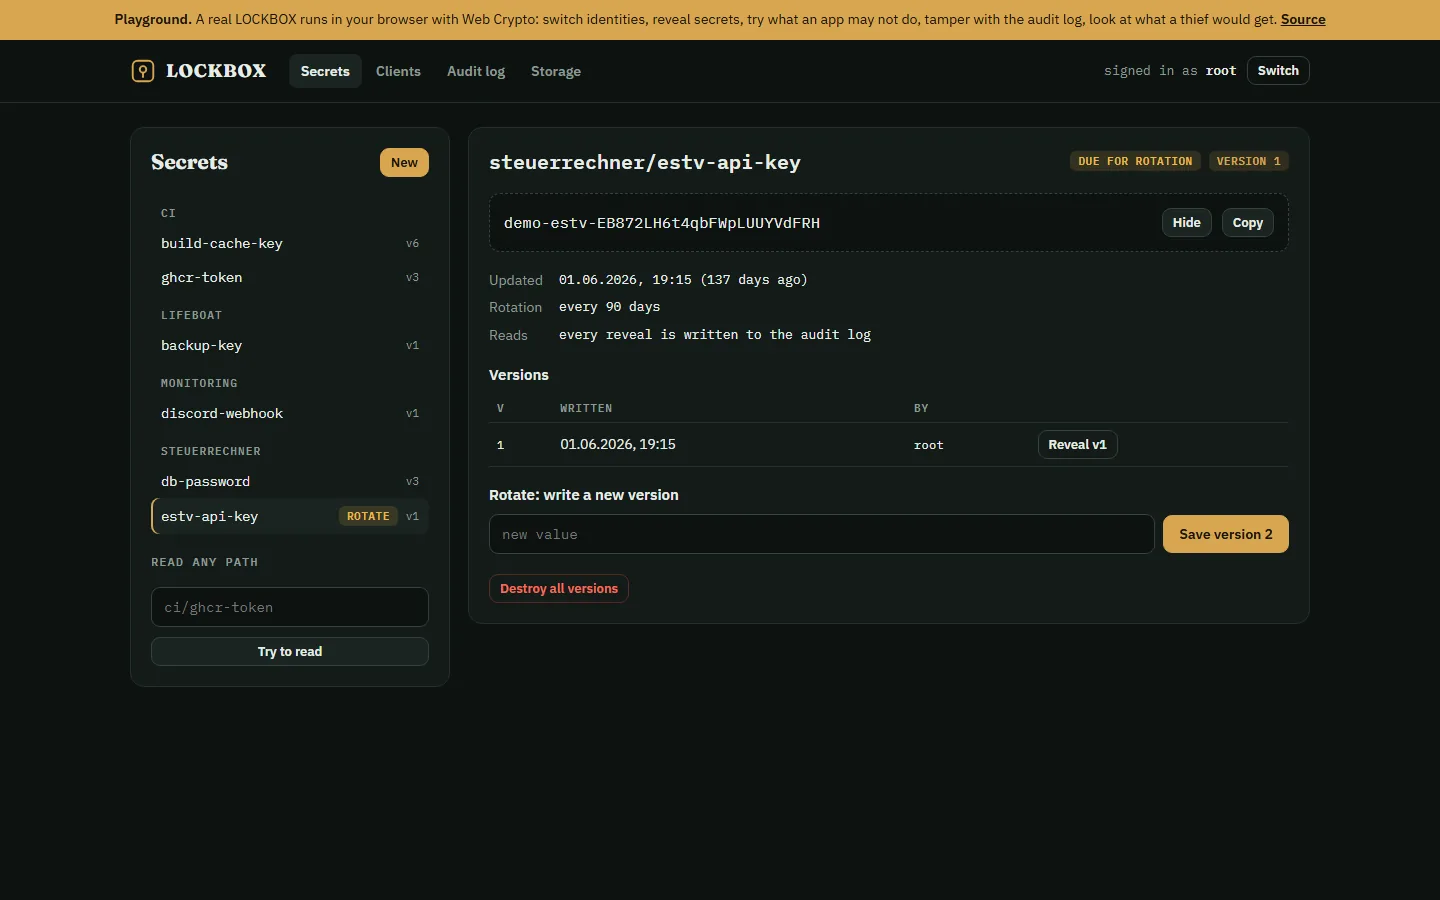
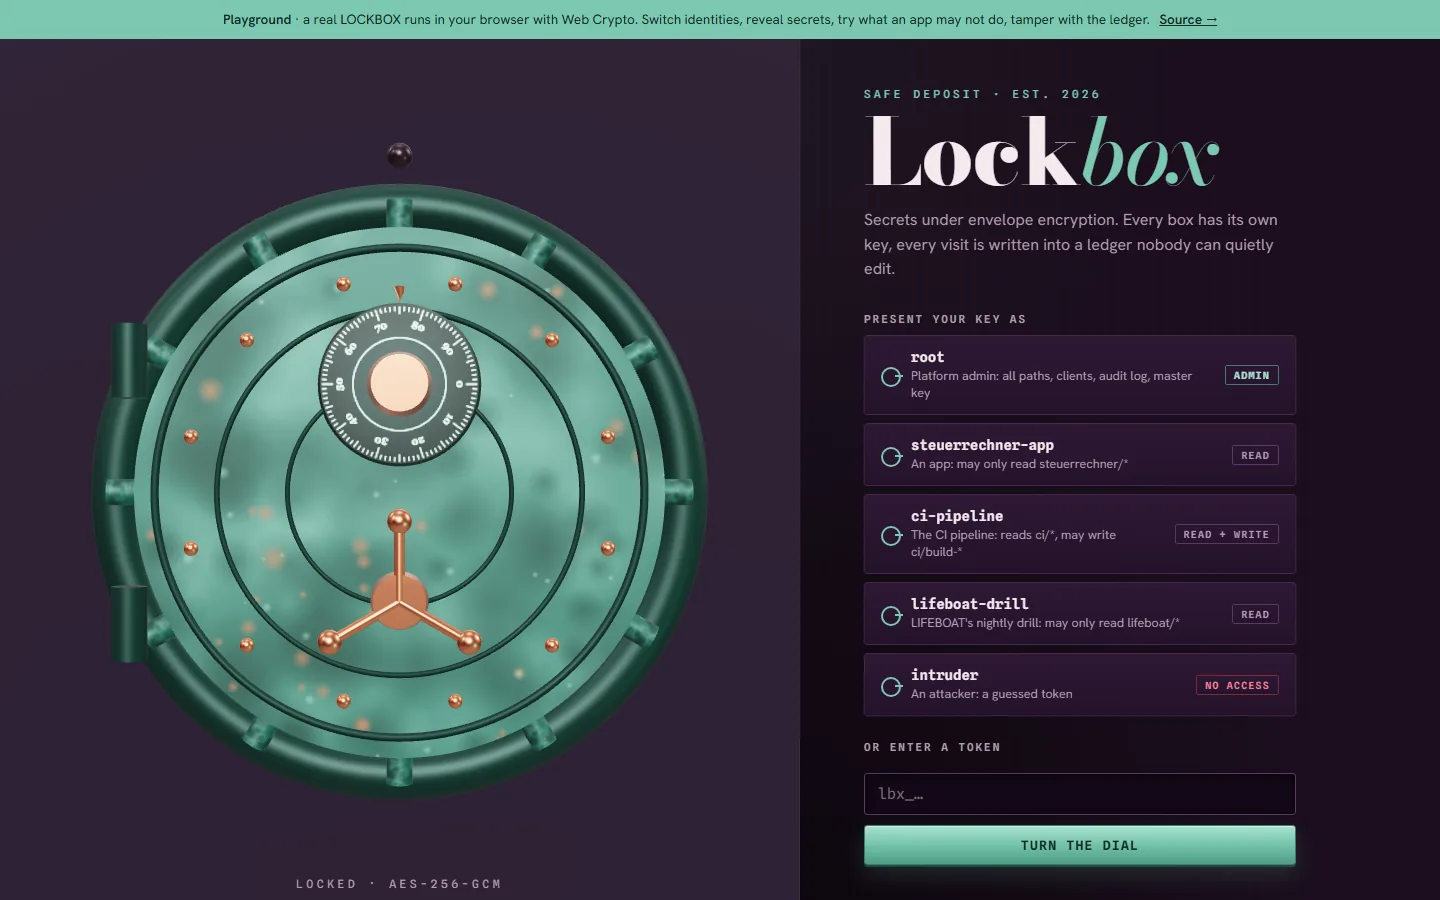
New screenshots after the redesign

diff --git a/projekte.html b/projekte.html
@@ -53,9 +53,9 @@
       </p>
       <ul class="ccards">
         <li class="ccard ccard--wide">
-          <button class="ccard__shot" type="button" data-shot="assets/launchpad.webp?v=2" data-title="LAUNCHPAD"
-                  data-alt="Screenshot des LAUNCHPAD-Portals: dunkles Dashboard mit Kennzahlen, Plattform-Komponenten und Karten für die Apps Ember, GAMBIT, hello-api und Steuerrechner, alle gesund und synchron mit Git, aufgenommen vom echten Cluster">
-            <img src="assets/launchpad.webp?v=2" alt="" loading="lazy" />
+          <button class="ccard__shot" type="button" data-shot="assets/launchpad.webp?v=3" data-title="LAUNCHPAD"
+                  data-alt="LAUNCHPAD im Blaupausen-Look: der Cluster als 3D-Startrampe, jede App ein Turm, eine neue App steigt mit einem grünen Startstrahl auf">
+            <img src="assets/launchpad.webp?v=3" alt="" loading="lazy" />
           </button>
           <div class="ccard__main">
             <div class="ccard__head">
@@ -89,9 +89,9 @@ git push</code></pre>
         </li>
 
         <li class="ccard ccard--wide">
-          <button class="ccard__shot" type="button" data-shot="assets/lifeboat.webp" data-title="LIFEBOAT"
-                  data-alt="Statusseite von LIFEBOAT: grosser Titel Last restore drill passed, darunter Wiederherstellungszeit, Anzahl Durchläufe, aufbewahrte Backups und geschützte Zeilen sowie die Schritte der letzten Nacht">
-            <img src="assets/lifeboat.webp" alt="" loading="lazy" />
+          <button class="ccard__shot" type="button" data-shot="assets/lifeboat.webp?v=2" data-title="LIFEBOAT"
+                  data-alt="LIFEBOAT: ein gelber 3D-Rettungsring auf dem nächtlichen Meer, daneben DRILL PASSED mit der Signalflagge C und die Kennzahlen">
+            <img src="assets/lifeboat.webp?v=2" alt="" loading="lazy" />
           </button>
           <div class="ccard__main">
             <div class="ccard__head">
@@ -124,9 +124,9 @@ if db.fingerprint() != manifest["tables"]:
         </li>
 
         <li class="ccard ccard--wide">
-          <button class="ccard__shot" type="button" data-shot="assets/lockbox.webp" data-title="LOCKBOX"
-                  data-alt="LOCKBOX im dunklen Tresor-Design: links die Liste der Secrets nach Apps gruppiert, rechts ein aufgedeckter API-Key mit Versionen, Rotations-Hinweis und Knopf für eine neue Version">
-            <img src="assets/lockbox.webp" alt="" loading="lazy" />
+          <button class="ccard__shot" type="button" data-shot="assets/lockbox.webp?v=2" data-title="LOCKBOX"
+                  data-alt="LOCKBOX: eine 3D-Tresortür aus grün patiniertem Kupfer mit Zahlenschloss, daneben die Anmeldung als Admin, App oder Angreifer">
+            <img src="assets/lockbox.webp?v=2" alt="" loading="lazy" />
           </button>
           <div class="ccard__main">
             <div class="ccard__head">
